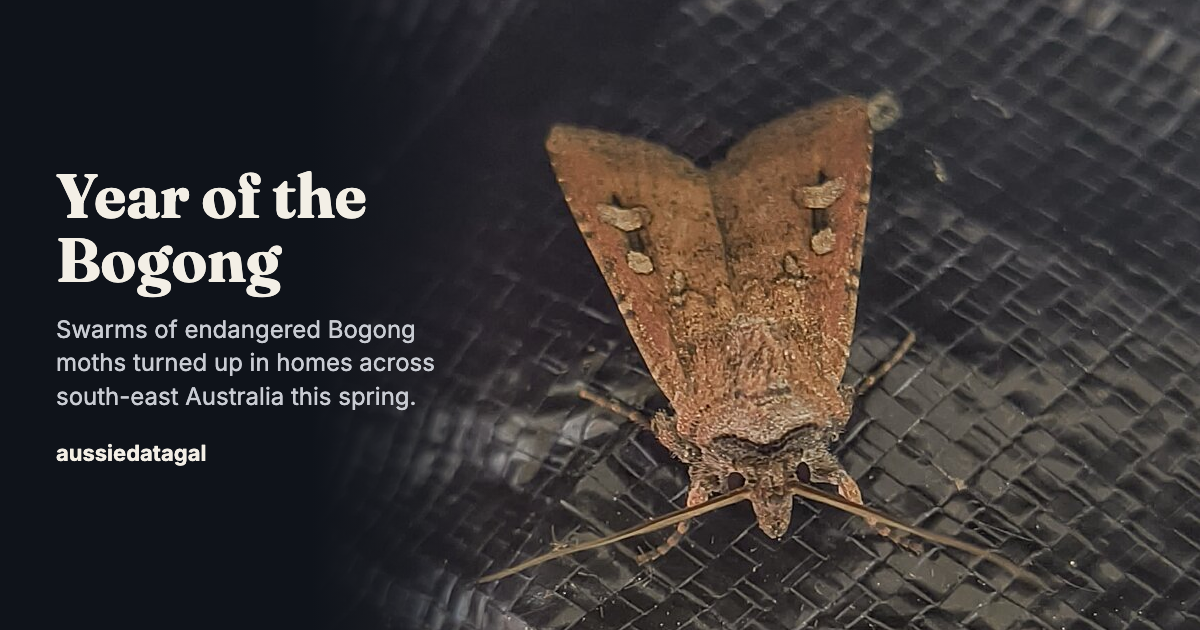
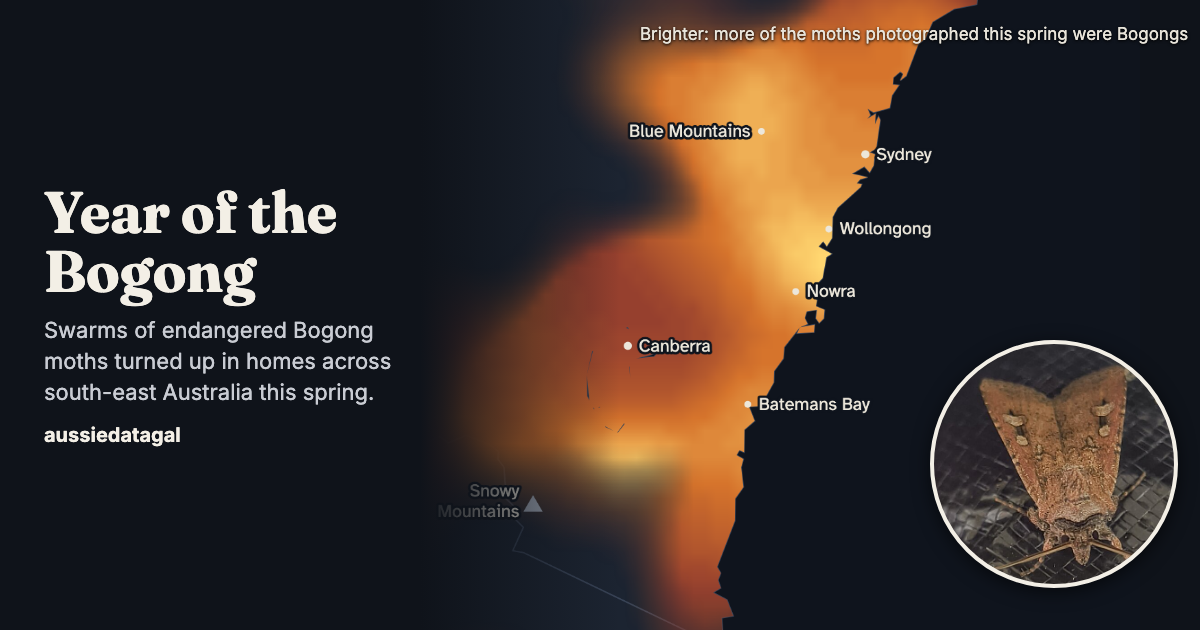
Share image: map with the title and a moth photo

diff --git a/index.html b/index.html
@@ -10,10 +10,10 @@
   <meta property="og:site_name" content="aussiedatagal">
   <meta property="og:title" content="Year of the Bogong">
   <meta property="og:description" content="This spring, swarms of endangered Bogong moths turned up in homes and gardens across south-east Australia.">
-  <meta property="og:image" content="https://aussiedatagal.github.io/bogong-moths/img/og.png?v=2">
+  <meta property="og:image" content="https://aussiedatagal.github.io/bogong-moths/img/og.png?v=3">
   <meta property="og:image:width" content="1200">
   <meta property="og:image:height" content="630">
-  <meta property="og:image:alt" content="Year of the Bogong: a Bogong moth resting on a dark tarp">
+  <meta property="og:image:alt" content="Year of the Bogong: a map of south-east NSW glowing brightest where Bogongs made up most of the moths photographed this spring, around the Blue Mountains and the Illawarra, with a photo of a Bogong moth">
   <meta property="og:url" content="https://aussiedatagal.github.io/bogong-moths/">
   <meta name="twitter:card" content="summary_large_image">
   <meta name="theme-color" content="#0f141d">
